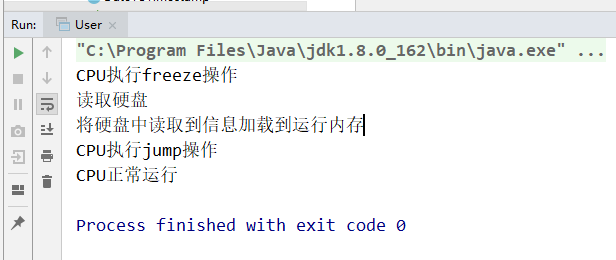
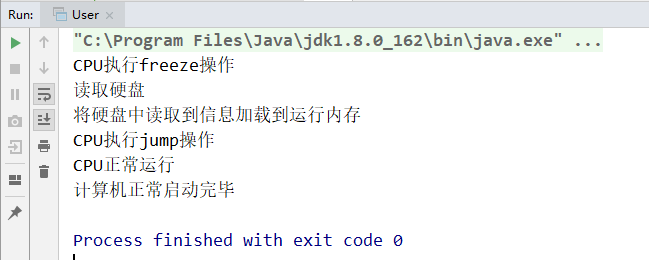
upload img

diff --git a/外观模式（facade pattern）.md b/外观模式（facade pattern）.md
@@ -42,9 +42,85 @@
 
 例子：这里有一台计算机，开机需要CPU、硬盘、内存的配合，但是用户不需要知道CPU是否运行、硬盘是否被读取、内存是否被加载，计算机应用外观模式定义了一个开机键，用户只需要按了开机键就可以完成开机了。
 
+CPU类：
 
+``` java
+public class CPU {
+    public void freeze() {
+        System.out.println("CPU执行freeze操作");
+    }
+    public void jump() {
+        System.out.println("CPU执行jump操作");
+    }
+    public void execute() {
+        System.out.println("CPU正常运行");
+    }
+}
+```
 
+硬盘类：
 
+``` java
+public class HardDrive {
+    public void read() {
+        System.out.println("读取硬盘");
+    }
+}
+```
+
+内存类：
+
+``` java
+public class Memory {
+    public void load() {
+        System.out.println("将硬盘中读取到信息加载到运行内存");
+    }
+}
+```
+
+外观类：
+
+``` java
+public class ComputerFacade {
+    private CPU processor;
+    private Memory ram;
+    private HardDrive hd;
+
+    public ComputerFacade() {
+        this.processor = new CPU();
+        this.ram = new Memory();
+        this.hd = new HardDrive();
+    }
+
+    public void start() {
+        processor.freeze();
+        hd.read();
+        ram.load();
+        processor.jump();
+        processor.execute();
+        System.out.println("计算机正常启动完毕");
+    }
+}
+```
+
+start方法就是相当于开机键。
+
+测试类：
+
+``` java
+public class User {
+    public static void main(String[] args) {
+        ComputerFacade computerFacade = new ComputerFacade();
+        computerFacade.start();
+    }
+}
+```
+
+测试结果：
+
+![测试结果](https://raw.githubusercontent.com/Mingmingcome/cnblogs/master/images/facade-example-result.png)
+
+结果显示只需要调用外观类的start方法就可以启动计算机。
 
 #### 模式扩展
 
